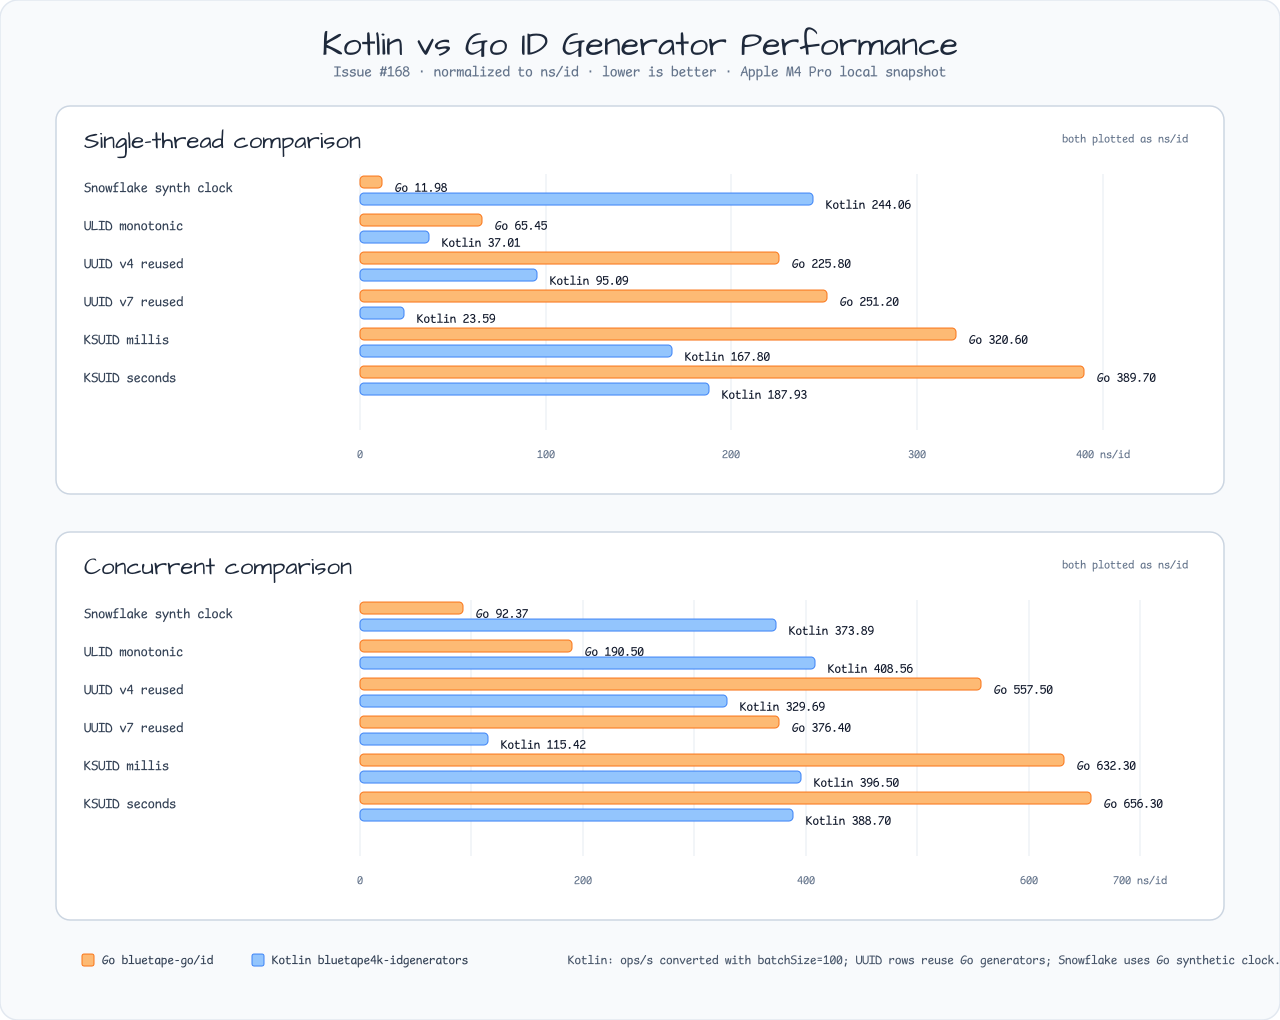
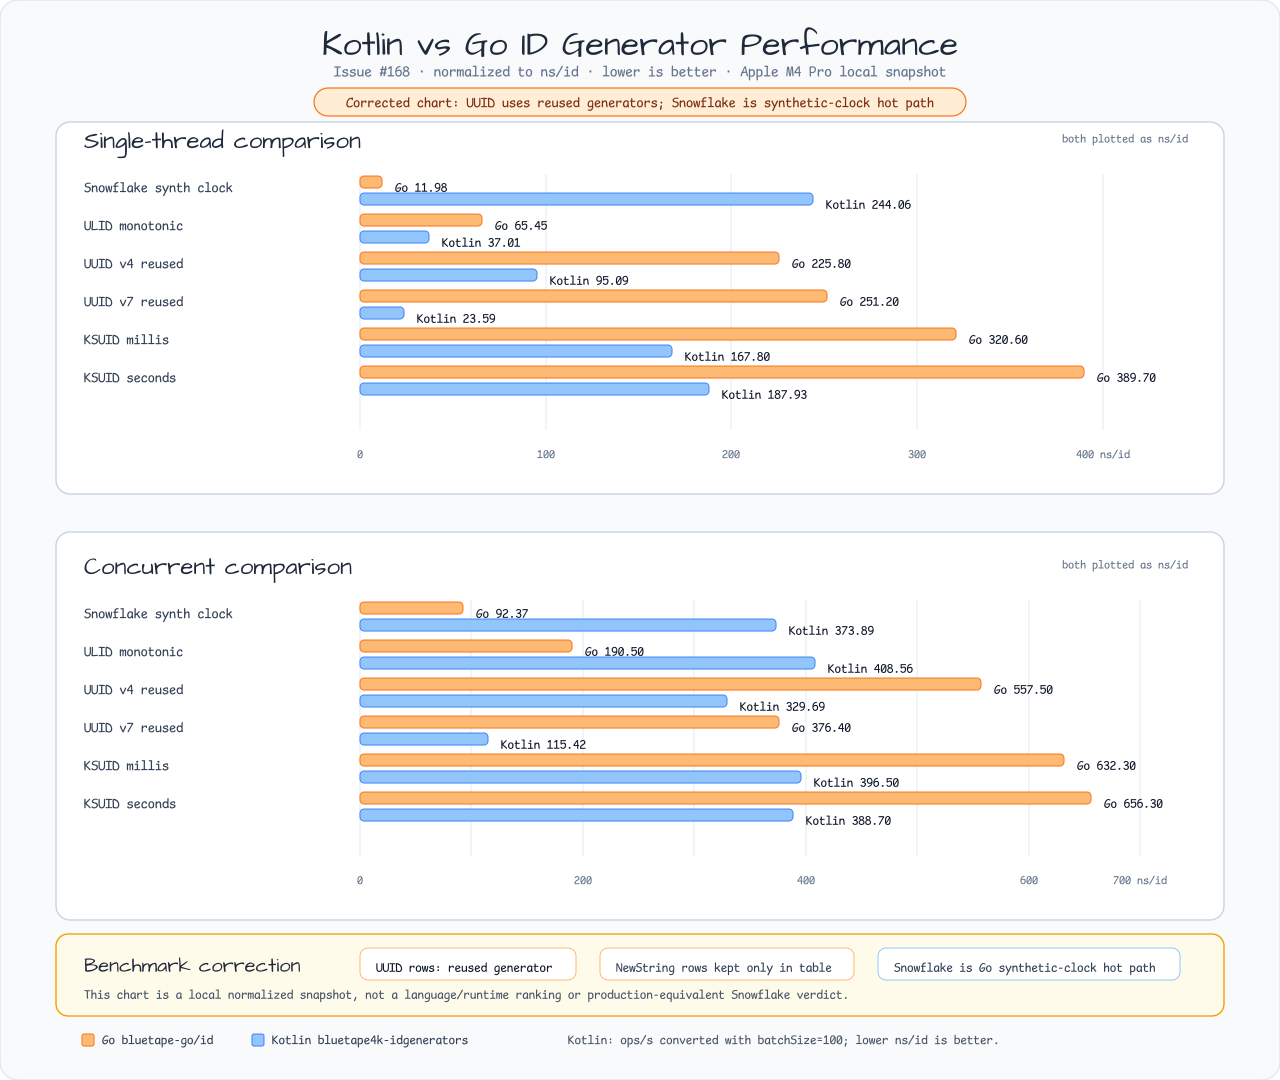
Highlight benchmark correction in chart
Make the UUID reused-generator and Snowflake synthetic-clock caveats visible in the chart itself so the visual correction is clear without relying on surrounding prose.

Constraint: User flagged that the corrected chart did not look materially different.

Rejected: Leaving the caveats only in prose or a small footer | the main visual still looked like the prior chart.

Confidence: high

Scope-risk: narrow

Directive: Benchmark chart caveats that change interpretation must be visible in the image, not only surrounding prose.

Tested: git diff --check; xmllint --noout docs/images/readme-charts/id-generator-benchmark-summary.svg; rsvg-convert docs/images/readme-charts/id-generator-benchmark-summary.svg -o docs/images/readme-charts/id-generator-benchmark-summary.png; vision subagent review P0=0 P1=0.

Not-tested: Go/JVM benchmark rerun; chart-only presentation change.

diff --git a/docs/review/2026-06-10-issue-168-id-benchmarks-review.md b/docs/review/2026-06-10-issue-168-id-benchmarks-review.md
@@ -41,6 +41,10 @@ converted from throughput with `1e9 / (ops/s * batchSize)` using `batchSize=100`
 and still include batch uniqueness-check work. UUID chart rows use reused Go
 generators; Snowflake rows are labeled as synthetic-clock Go hot-path
 measurements and are not production-equivalent Snowflake verdicts by themselves.
+The chart also makes the correction visible in the image itself with a top
+correction strip and a bottom benchmark-correction band, so the UUID
+reused-generator and Snowflake synthetic-clock boundaries are not hidden in
+surrounding prose.
 
 ## 7-Tier Findings
 
@@ -87,7 +91,8 @@ measurements and are not production-equivalent Snowflake verdicts by themselves.
   overstate a synthetic-clock Go benchmark. The indexes now place the report
   under `0.6.1`, UUID chart rows use reused-generator benchmarks, and Snowflake
   rows are labeled as synthetic-clock hot-path data with an explicit
-  interpretation boundary.
+  interpretation boundary. The rendered chart now repeats that boundary in the
+  top correction strip and bottom benchmark-correction band.
 - Gate: P0=0, P1=0.
 
 ### Tier 6: Completion Verification
@@ -126,8 +131,8 @@ measurements and are not production-equivalent Snowflake verdicts by themselves.
 - PASS: chart color inspection after switching Go/Kotlin bars to complementary
   amber/blue colors for clearer visual separation
 - PASS: vision subagent review of the revised chart, with `P0=0 P1=0`; the
-  reported P2 caveat prominence remains non-blocking because the same caveat is
-  explicit in README/research text and the chart footer
+  follow-up revision made the correction more prominent with a top correction
+  strip plus bottom benchmark-correction band
 - PASS: critic re-review after Snowflake/revision/follow-up repairs, with
   `P0=0 P1=0`
 - PASS: performance-focused verifier re-review after UUID/ULID/Snowflake
@@ -143,7 +148,8 @@ measurements and are not production-equivalent Snowflake verdicts by themselves.
 - Tier 6 critic subagent: initially P0=0 P1=2; Snowflake synthetic-clock
   labeling, review/revision consistency, and follow-up issue body were repaired
   and re-reviewed.
-- Tier 7 vision subagent: P0=0 P1=0, P2 non-blocking caveat prominence noted.
+- Tier 7 vision subagent: P0=0 P1=0 after the chart correction strip and
+  benchmark-correction band were added.
 
 ## Performance Review Repair Note
 
@@ -153,8 +159,9 @@ Snowflake synthetic-clock row was too easy to read as a production-equivalent
 Go-vs-Kotlin verdict. The current artifact records the repair: UUID chart rows
 now use reused generators, convenience-function rows remain only as overhead
 evidence, Snowflake rows are labeled as synthetic-clock hot-path data, and
-follow-up issues require equivalent clock/batch remeasurement before optimization
-claims.
+the chart itself now carries a visible correction strip plus correction band.
+Follow-up issues require equivalent clock/batch remeasurement before
+optimization claims.
 
 ## Gate Verdict
 
